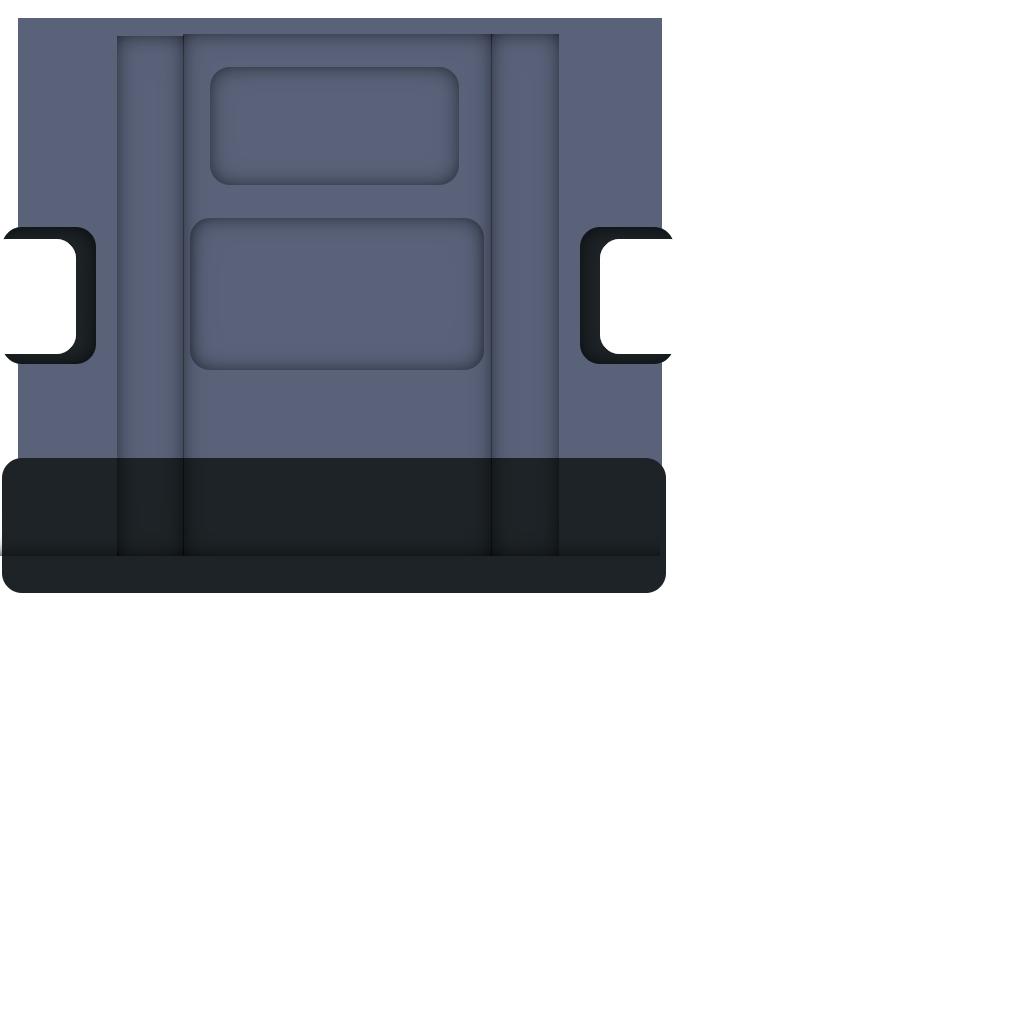
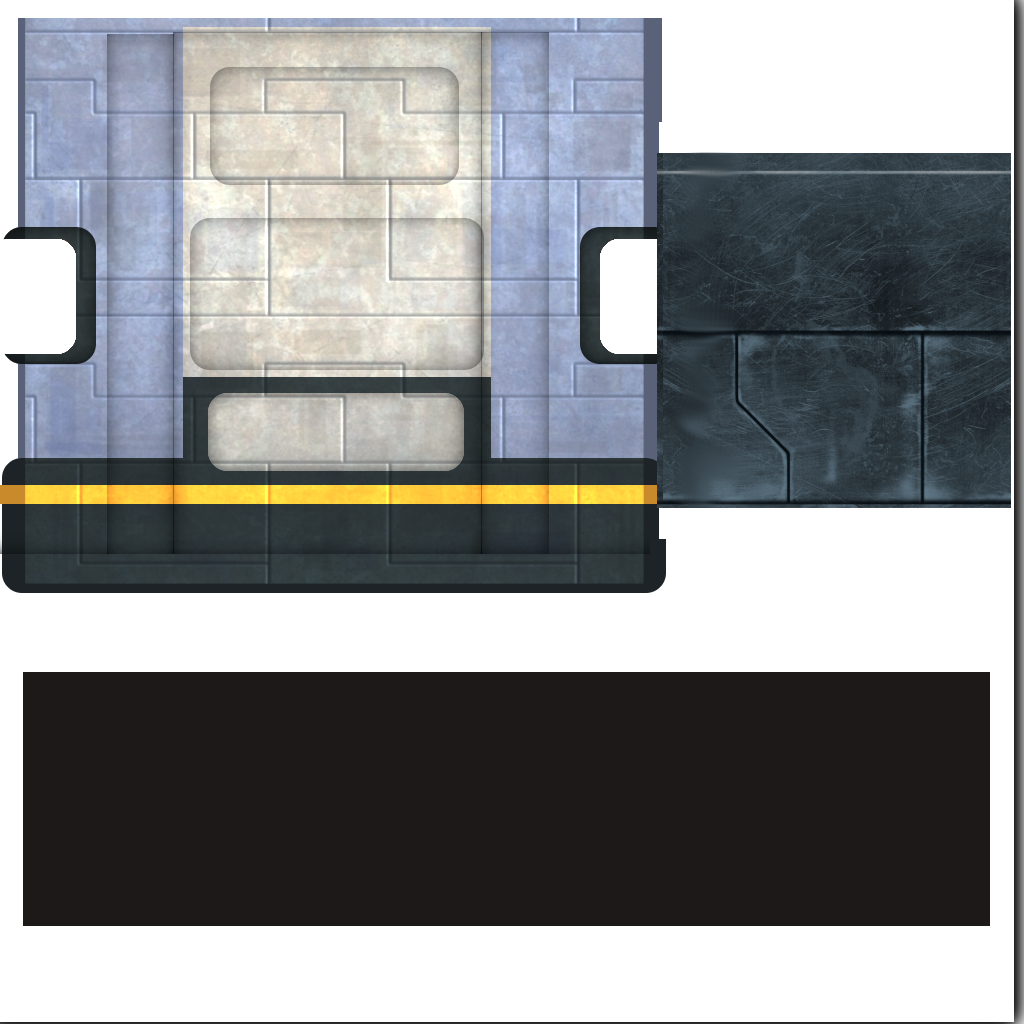
new textures test

diff --git a/test.py b/test.py
@@ -26,8 +26,11 @@ class Game(ShowBase):
         self.model.set_pos(2, 0, 0)
         self.picker.make_pickable(self.model)
 
-        for j in range(2, 10):
-            self.render.attach_new_node(self.loader.load_model("models/wall_straight_new.egg").node()).set_pos(0, j, 0)
+        for j in range(-100, 100):
+            a = self.render.attach_new_node(self.loader.load_model("models/wall_straight_new.egg").node())
+            a.set_pos(0, j, 0)
+            if j == 4:
+                a.set_texture(self.loader.load_texture('models/tex/test.png'), 1)
 
         self.setBackgroundColor(hex_to_normalized_rgb('#99ffcc'))
         self.render.setShaderAuto()
